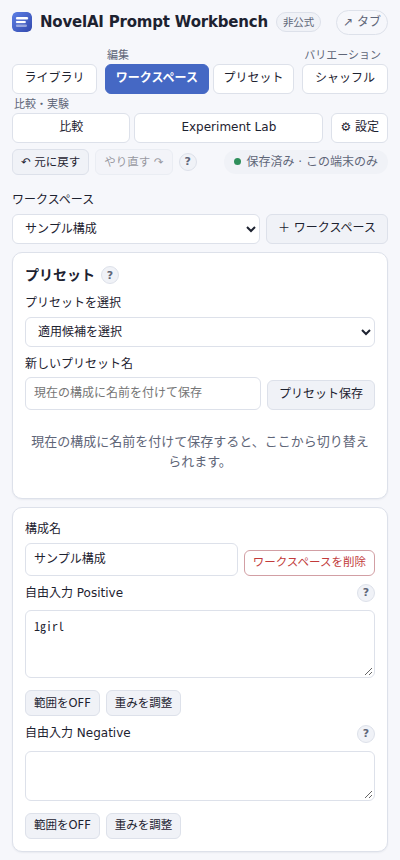
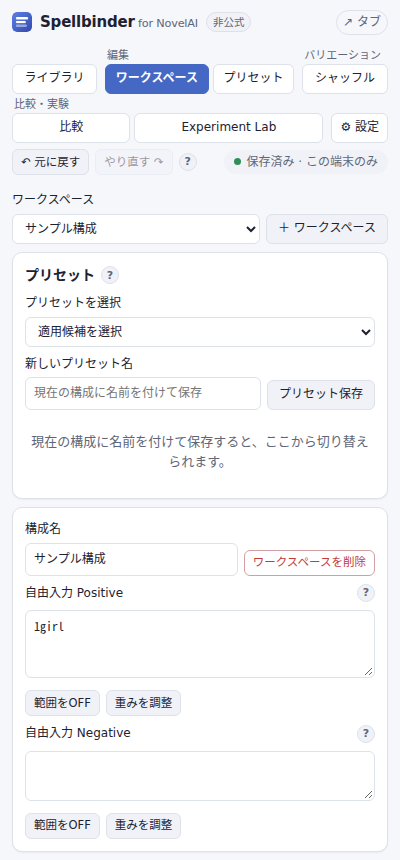
Rename to Spellbinder for NovelAI
Display name, manifest (name, short_name, action title), screen title,
release ZIP and backup file names, docs and repository URLs now use
Spellbinder for NovelAI / spellbinder-for-novelai. Identifiers that
saved data and backups depend on keep the old name (ADR-110), and the
update-from-release test keeps the old install folder name.

Changed region(s): [[0.09, 0.0, 0.66, 0.0302], [0.69, 0.0, 0.78, 0.0302]]

diff --git a/src/ui/App.tsx b/src/ui/App.tsx
@@ -91,7 +91,7 @@ export function App({ siteClient }: { siteClient?: SiteClient } = {}) {
   const statusPill = <div className={`status ${workbench.storageError ? 'error' : !data ? 'loading' : workbench.saving ? 'saving' : ''}`} role="status">{workbench.storageError ? '保存エラー・作業データは未保存です' : !data ? 'ローカルデータを読込中…' : workbench.saving ? '保存中…' : '保存済み · この端末のみ'}</div>;
   return <TagCompletionContext.Provider value={completion}><main className={tab === 'Experiment Lab' ? 'lab-wide' : 'with-preview'} onKeyDown={keyboard}>
     <header className="app-header">
-      <div className="app-title"><img className="app-icon" src="/icon/32.png" width={20} height={20} alt="" /><h1>NovelAI Prompt Workbench</h1><span className="badge" title="NovelAI（Anlatan Inc.）とは提携していない非公式ツールです。データはこの端末だけに保存され、画像の生成はNovelAI上で行います">非公式</span></div>
+      <div className="app-title"><img className="app-icon" src="/icon/32.png" width={20} height={20} alt="" /><h1>Spellbinder<span className="app-subtitle"> for NovelAI</span></h1><span className="badge" title="NovelAI（Anlatan Inc.）とは提携していない非公式ツールです。データはこの端末だけに保存され、画像の生成はNovelAI上で行います">非公式</span></div>
       <div className="header-links">{!data && statusPill}<a href={`${location.pathname}#${HASH[tab]}`} target="_blank" rel="noreferrer" aria-label="広いタブで開く" title="広いタブで開く（サイドパネルより広い画面で、同じデータを開きます）">↗ タブ</a></div>
     </header>
     {workbench.storageError && <section className="panel stack" role="alert"><p>{workbench.storageError}</p><p>元の保存データは自動削除しません。画面上の作業データを、画像も含めて完全バックアップで退避できます。</p><div className="actions">

diff --git a/tests/e2e/release.spec.ts b/tests/e2e/release.spec.ts
@@ -40,7 +40,7 @@ test('release ZIP installs from an extracted folder, keeps data across restarts 
     channel: 'chromium', headless: true, viewport: { width: 400, height: 900 },
     args: [`--disable-extensions-except=${folder}`, `--load-extension=${folder}`],
   });
-  const install = join(base, 'novelai-prompt-workbench'); // the folder a user keeps and updates in place
+  const install = join(base, 'spellbinder-for-novelai'); // the folder a user keeps and updates in place
   await extract(install);
   // manifest.json sits directly in the extracted folder, so Chrome can load that folder.
   expect(existsSync(join(install, 'manifest.json'))).toBe(true);
@@ -83,7 +83,7 @@ test('release ZIP installs from an extracted folder, keeps data across restarts 
     await context.close();
 
     // 4. Why the folder must be reused: the same files in ANOTHER folder are a different extension with empty data.
-    const elsewhere = join(base, 'novelai-prompt-workbench-0.99.0');
+    const elsewhere = join(base, 'spellbinder-for-novelai-0.99.0');
     await extract(elsewhere, '0.99.0');
     context = await launch(elsewhere);
     const other = await extensionIdOf(context);
@@ -111,6 +111,7 @@ test('updating from a previously published release ZIP into the same folder keep
   if (!existsSync(join('.output', zipName(version)))) execFileSync(process.execPath, ['node_modules/wxt/bin/wxt.mjs', 'zip'], { stdio: 'pipe' });
   const current = readZip(await readFile(join('.output', zipName(version))));
   const base = await realpath(await mkdtemp(join(tmpdir(), 'nai-update-test-')));
+  // Users of releases up to 0.2.0 extracted into a folder named after the old name; they keep it.
   const install = join(base, 'novelai-prompt-workbench'); const profile = join(base, 'chrome-profile');
   const extract = async (entries: ReturnType<typeof readZip>) => {
     // Like the update instructions: empty the folder, then extract the new ZIP into it.

diff --git a/src/ui/Settings.tsx b/src/ui/Settings.tsx
@@ -23,7 +23,7 @@ export function Settings({ workbench }: { workbench: Workbench }) {
   return <div className="stack">
     <FullBackup workbench={workbench} />
     <section className="panel stack" aria-label="JSONバックアップ"><div className="section-title"><h2>JSONバックアップ（テキストのみ）</h2><InfoTip label="JSONバックアップ">ライブラリ・カテゴリ・ワークスペース・プリセット・比較セッション・Experiment Lab・シャッフル設定・タグ辞書・画像メタデータ・設定をJSONに保存します。画像原本・サムネイルは含みません（画像も残すなら完全バックアップを使用）。復元後に欠けた画像は比較画面に表示され、同じPNGを再取込すると修復できます。保存エラーのときも、この書出しで画面上の作業データを退避できます。JSONは暗号化されず、プロンプトがそのまま入ります（暗号化が必要なら完全バックアップを使用）。</InfoTip></div><p className="hint">画像原本を含まない軽いバックアップです。</p>
-      <button type="button" onClick={() => { try { downloadText(exportBackup(data, now()), 'nai-prompt-workbench.json'); } catch (error) { workbench.setError(message(error)); } }}>JSONをエクスポート</button>
+      <button type="button" onClick={() => { try { downloadText(exportBackup(data, now()), 'spellbinder.json'); } catch (error) { workbench.setError(message(error)); } }}>JSONをエクスポート</button>
       <label>JSONをインポート<input type="file" accept=".json,application/json" disabled={busy} onChange={event => {
         const file = event.target.files?.[0];
         event.target.value = '';

diff --git a/src/ui/UnsavedRecovery.tsx b/src/ui/UnsavedRecovery.tsx
@@ -20,7 +20,7 @@ export function UnsavedRecovery({ workbench, onDone }: { workbench: Workbench; o
         if (!confirm(`${newer ? '現在保存されている内容を、' : ''}前回の画面の未保存の変更で置き換えますか？「元に戻す」で戻せます。${missing ? `\n画像${missing}件は原本がないため欠落として表示されます。` : ''}`)) return;
         if (workbench.restoreUnsaved(item.key)) onDone('前回の未保存の変更を復元しました。「元に戻す」で復元前に戻せます。');
       }}>未保存の変更を復元</button>
-      <button type="button" onClick={() => { try { downloadText(exportBackup(journal.data, now()), 'nai-prompt-workbench-unsaved.json'); } catch (error) { workbench.setError(message(error)); } }}>未保存の変更をJSONで保存</button>
+      <button type="button" onClick={() => { try { downloadText(exportBackup(journal.data, now()), 'spellbinder-unsaved.json'); } catch (error) { workbench.setError(message(error)); } }}>未保存の変更をJSONで保存</button>
       <button type="button" className="danger" onClick={() => { if (confirm('前回の画面の未保存の変更を破棄しますか？元に戻せません。')) { workbench.discardUnsaved(item.key); onDone('前回の未保存の変更を破棄しました。'); } }}>未保存の変更を破棄</button>
     </div>
   </section>;

diff --git a/wxt.config.ts b/wxt.config.ts
@@ -5,15 +5,16 @@ import { APP_VERSION } from './src/version';
 export default defineConfig({
   modules: ['@wxt-dev/module-react'],
   manifest: {
-    name: 'NovelAI Prompt Workbench (unofficial)',
-    description: 'Local-first prompt library and workspace for NovelAI image generation',
+    name: 'Spellbinder for NovelAI (unofficial)',
+    short_name: 'Spellbinder',
+    description: 'Unofficial local-first prompt library, composer and comparison workbench for NovelAI image generation',
     version: APP_VERSION,
     // `sidePanel` is supplied by WXT for the side panel entrypoint; it is the only permission.
     // The toolbar button opens the side panel via the minimal background worker
     // (sidePanel.setPanelBehavior). No popup: a popup closes when the page is clicked.
     // Data lives in IndexedDB, so no storage/host/tabs permissions are needed.
     // manifest.icons is discovered from public/icon/<size>.png (rendered by scripts/render-icons.mjs).
-    action: { default_title: 'Prompt Workbench を開く', default_icon: { 16: 'icon/16.png', 32: 'icon/32.png', 48: 'icon/48.png' } },
+    action: { default_title: 'Spellbinder を開く', default_icon: { 16: 'icon/16.png', 32: 'icon/32.png', 48: 'icon/48.png' } },
   },
   hooks: {
     // Ship the project's own MIT license with the build; third-party notices come from public/.

diff --git a/tests/e2e/backup.spec.ts b/tests/e2e/backup.spec.ts
@@ -33,7 +33,7 @@ test('complete backup restores text, comparisons, shuffle and original PNGs into
   const download = page.waitForEvent('download');
   await button(page, '完全バックアップをZIPで保存').click();
   const zip = await download;
-  expect(zip.suggestedFilename()).toMatch(/^nai-prompt-workbench-backup-\d{8}-\d{6}Z\.zip$/);
+  expect(zip.suggestedFilename()).toMatch(/^spellbinder-backup-\d{8}-\d{6}Z\.zip$/);
   const zipPath = (await zip.path())!;
   await expect(page.getByLabel('完全バックアップ', { exact: true }).getByRole('status').last()).toContainText('画像原本2件');
 
@@ -106,7 +106,7 @@ test('a password-encrypted complete backup restores only with the right password
   const download = page.waitForEvent('download');
   await button(page, '暗号化して完全バックアップを保存').click();
   const file = await download;
-  expect(file.suggestedFilename()).toMatch(/^nai-prompt-workbench-backup-\d{8}-\d{6}Z-encrypted\.nwbenc$/);
+  expect(file.suggestedFilename()).toMatch(/^spellbinder-backup-\d{8}-\d{6}Z-encrypted\.nwbenc$/);
   const path = (await file.path())!;
   const bytes = await readFile(path);
   expect(bytes.subarray(0, 8).toString('latin1')).toBe('NAIWBENC');

diff --git a/tests/unit/release-scripts.test.ts b/tests/unit/release-scripts.test.ts
@@ -43,7 +43,7 @@ describe('release version checks', () => {
     expect(sourceVersionOf(readFileSync('src/version.ts', 'utf8'))).toBe(APP_VERSION);
     expect(isPrerelease('0.9.3')).toBe(true);
     expect(isPrerelease('1.0.0')).toBe(false);
-    expect(zipName('0.1.0')).toBe('novelai-prompt-workbench-0.1.0-chrome.zip');
+    expect(zipName('0.1.0')).toBe('spellbinder-for-novelai-0.1.0-chrome.zip');
   });
   it('the CLI fails on a tag that does not match the project version', () => {
     const mismatch = spawnSync(process.execPath, ['scripts/verify-release.mjs', '--versions-only', '--tag', 'v99.0.0'], { encoding: 'utf8' });
@@ -112,7 +112,7 @@ describe('release notes source', () => {
   });
   it('the release notes tell users not to use the source code archives GitHub attaches', () => {
     const notes = execFileSync(process.execPath, ['scripts/release-notes.mjs', APP_VERSION], { encoding: 'utf8' });
-    expect(notes).toContain(`novelai-prompt-workbench-${APP_VERSION}-chrome.zip`);
+    expect(notes).toContain(`spellbinder-for-novelai-${APP_VERSION}-chrome.zip`);
     expect(notes).toContain('「Source code (zip)」「Source code (tar.gz)」');
     expect(notes).toContain('manifest.json');
   });

diff --git a/src/data/full-backup.ts b/src/data/full-backup.ts
@@ -55,7 +55,7 @@ export async function sha256(bytes: Uint8Array): Promise<string> {
   return Array.from(new Uint8Array(await crypto.subtle.digest('SHA-256', new Uint8Array(bytes))), value => value.toString(16).padStart(2, '0')).join('');
 }
 export function fullBackupFilename(time: string): string {
-  return `nai-prompt-workbench-backup-${time.replace(/\.\d+Z$/, 'Z').replace(/[-:]/g, '').replace('T', '-')}.zip`;
+  return `spellbinder-backup-${time.replace(/\.\d+Z$/, 'Z').replace(/[-:]/g, '').replace('T', '-')}.zip`;
 }
 
 export interface BinarySource { image(id: string, thumbnail: boolean): Promise<Blob | undefined> }

diff --git a/src/core/site-diagnostics.ts b/src/core/site-diagnostics.ts
@@ -9,7 +9,7 @@ export interface DiagnosticRead { channel: 'positive' | 'negative'; length: numb
 
 export function siteDiagnostics(input: { appVersion: string; at: string; browser: string; uiLanguage: string; sites: readonly DiagnosticSite[]; reads: readonly DiagnosticRead[] }): string {
   const lines = [
-    '## NovelAI Prompt Workbench 実サイト確認の診断情報',
+    '## Spellbinder for NovelAI 実サイト確認の診断情報',
     `- アプリの版: ${input.appVersion}`,
     `- 日時: ${input.at}`,
     `- ブラウザ: ${input.browser || '不明'}`,

diff --git a/tests/unit/full-backup.test.ts b/tests/unit/full-backup.test.ts
@@ -271,7 +271,7 @@ describe('complete backup (ZIP with original images)', () => {
 
   it('validates manifest shape strictly and names files deterministically', () => {
     expect(() => validateManifest({ format: 'nai-prompt-workbench-full-backup' })).toThrow(BackupError);
-    expect(fullBackupFilename('2026-11-18T06:07:08.123Z')).toBe('nai-prompt-workbench-backup-20261118-060708Z.zip');
+    expect(fullBackupFilename('2026-11-18T06:07:08.123Z')).toBe('spellbinder-backup-20261118-060708Z.zip');
   });
 
   it('package.json and the manifest share one version', () => {

diff --git a/tests/e2e/workbench.spec.ts b/tests/e2e/workbench.spec.ts
@@ -317,7 +317,7 @@ test('detail texts stay hidden until hover, focus or tap, and stay inside the na
   await help.click();
   await page.mouse.move(0, 0);
   await expect(tip).toBeVisible();
-  await page.getByRole('heading', { name: 'NovelAI Prompt Workbench', exact: true }).click();
+  await page.getByRole('heading', { name: 'Spellbinder for NovelAI', exact: true }).click();
   await expect(tip).toBeHidden();
 });
 

diff --git a/entrypoints/sidepanel/index.html b/entrypoints/sidepanel/index.html
@@ -3,7 +3,7 @@
   <head>
     <meta charset="UTF-8" />
     <meta name="viewport" content="width=device-width, initial-scale=1.0" />
-    <title>NovelAI Prompt Workbench（非公式）</title>
+    <title>Spellbinder for NovelAI（非公式）</title>
     <link rel="icon" type="image/png" sizes="32x32" href="/icon/32.png" />
   </head>
   <body>
